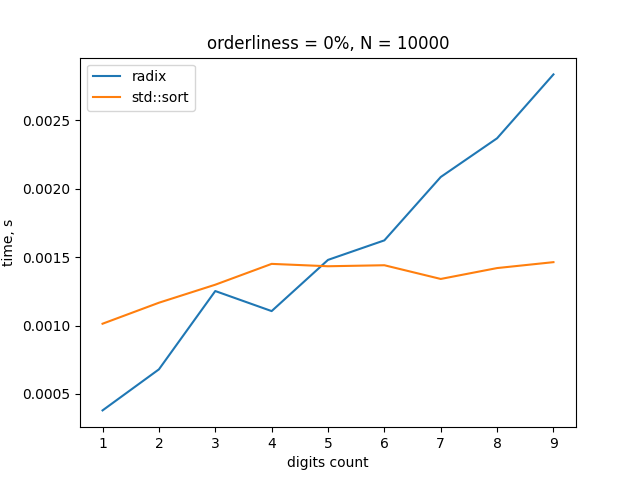
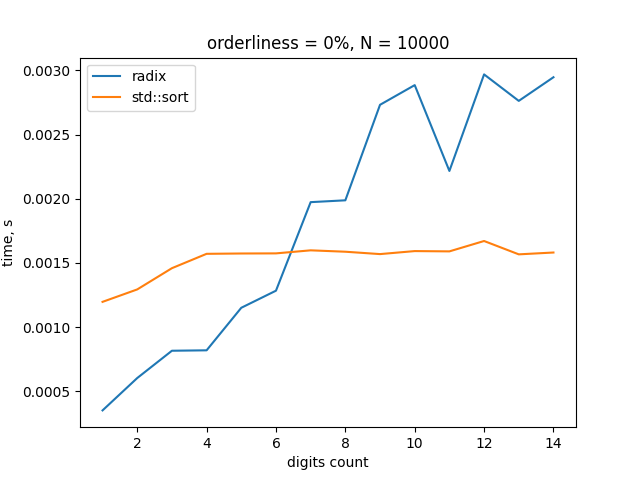
extend benchmarks size

diff --git a/problems/radix_sort/time_measurement.cpp b/problems/radix_sort/time_measurement.cpp
@@ -7,25 +7,25 @@
 #include <ctime>
 
 size_t digits_count = 0;
-void radixSort(uint32_t *first, uint32_t *last)
+void radixSort(uint64_t *first, uint64_t *last)
 {
-    RadixSorter::sort(first, last, getDigit<uint32_t>, digits_count);
+    RadixSorter::sort(first, last, getDigit<uint64_t>, digits_count);
 }
 
-void stdSort(uint32_t *first, uint32_t *last)
+void stdSort(uint64_t *first, uint64_t *last)
 {
     // strict order required
-    std::sort(first, last, [](uint32_t left, uint32_t right) { return left < right; });
+    std::sort(first, last, [](uint64_t left, uint64_t right) { return left < right; });
 }
 
 template <typename Func>
 double measure(Func sort, int N, float orderliness, int count)
 {
-    CushyVector<CushyVector<uint32_t> *> arrays(count);
+    CushyVector<CushyVector<uint64_t> *> arrays(count);
     for(auto &array : arrays)
     {
-        array = new CushyVector<uint32_t>(N);
-        RandomArray::fill(array->begin(), array->end(), UnorderedIntGenerator(0, pow10[digits_count]), orderliness);
+        array = new CushyVector<uint64_t>(N);
+        RandomArray::fill(array->begin(), array->end(), UnorderedULLGenerator(0, pow10[digits_count]), orderliness);
     }
 
     auto start = std::chrono::high_resolution_clock::now();

diff --git a/problems/radix_sort/benchmarks.py b/problems/radix_sort/benchmarks.py
@@ -5,7 +5,7 @@ matplotlib.use("Agg")
 import matplotlib.pyplot as plt
 import os
 
-COUNT_OF_MEASUREMENTS_FACTOR = int(5e6)
+COUNT_OF_MEASUREMENTS_FACTOR = int(2e7)
 
 def get_times(N, orderliness, count, digits):
     output = subprocess.run([argv[1], str(N), str(orderliness), str(count), str(digits)], 
@@ -38,11 +38,12 @@ def get_benchmark_of_DC(orderliness, N):
     ds = []
     radix_measurements = []
     std_measurements = []
-    for d in range(1, 10):
+    for d in range(1, 15):
         times = get_times(N, orderliness, COUNT_OF_MEASUREMENTS_FACTOR / N, d)
         ds += [d]
         radix_measurements += [times[0]]
         std_measurements += [times[1]]
+        print(f"\r{d} / 14", sep="", end="")
     plt.plot(ds, radix_measurements, label="radix")
     plt.plot(ds, std_measurements, label="std::sort")
     plt.xlabel("digits count")
@@ -50,7 +51,7 @@ def get_benchmark_of_DC(orderliness, N):
     plt.title(f"orderliness = {int(100 * orderliness)}%, N = {N}")
     plt.legend()
     plt.savefig(f"benchmarks/N{N}o{int(100 * orderliness)}d.png")
-    print(f"benchmarks/N{N}o{int(100 * orderliness)}d.png")
+    print(f"\rbenchmarks/N{N}o{int(100 * orderliness)}d.png")
     plt.clf()
 
 def get_benchmark_of_orderliness(N, digits):

diff --git a/algorithms/random_array.h b/algorithms/random_array.h
@@ -7,6 +7,7 @@
 #include <utility>
 #include <cassert>
 #include <algorithm>
+#include <stdint.h>
 
 class OrderedIntGenerator
 {
@@ -30,6 +31,19 @@ private:
 public:
     UnorderedIntGenerator(int min, int max);
     int operator()();
+    bool isOrdered();
+};
+
+class UnorderedULLGenerator
+{
+private:
+    uint64_t value;
+    uint64_t min;
+    uint64_t max;
+
+public:
+    UnorderedULLGenerator(uint64_t min, uint64_t max);
+    uint64_t operator()();
     bool isOrdered();
 };
 

diff --git a/algorithms/random_array.cpp b/algorithms/random_array.cpp
@@ -32,3 +32,20 @@ int UnorderedIntGenerator::operator()()
 }
 
 bool UnorderedIntGenerator::isOrdered() { return false; }
+
+UnorderedULLGenerator::UnorderedULLGenerator(uint64_t min, uint64_t max)
+{
+    assert(min < max);
+
+    this->min = min;
+    this->max = max;
+    this->value = min;
+}
+
+uint64_t UnorderedULLGenerator::operator()()
+{
+    value = min + (rand() % (max - min));
+    return value;
+}
+
+bool UnorderedULLGenerator::isOrdered() { return false; }
